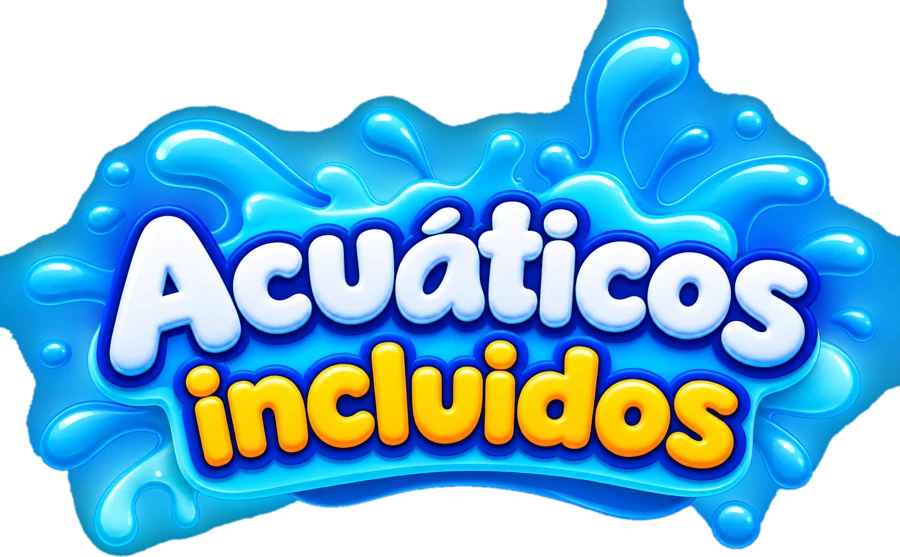
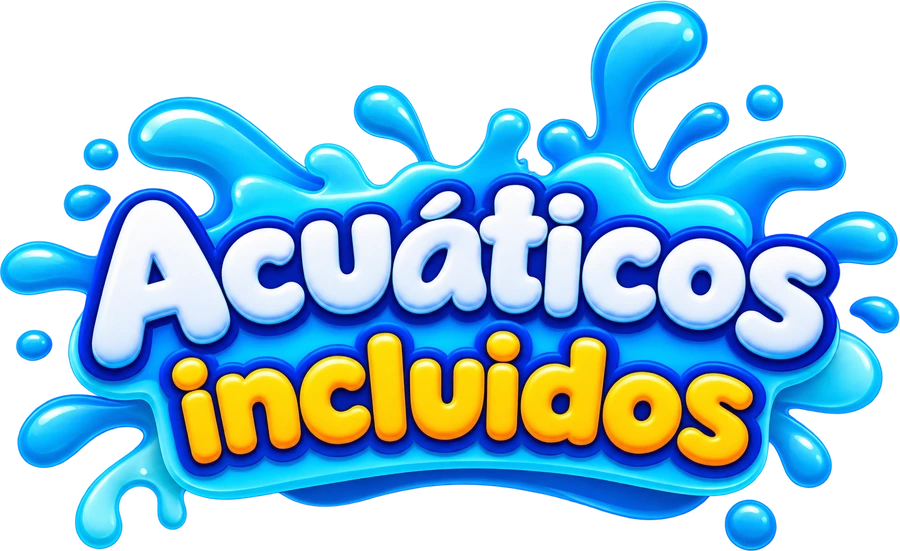
Cohete y Acuáticos: usar los PNG transparentes originales sin recortar
Claude-Session: https://claude.ai/code/session_01KPu7PH5FoTR17jMTLRghT3

diff --git a/planes.html b/planes.html
@@ -182,7 +182,7 @@ window.__planes={clave:clave,cache:c,foto:T.listo.then(function(){return T.demo&
   @keyframes gsal{from{transform:translate(var(--dx,20px),50px) scale(.2);opacity:0}to{transform:none;opacity:1}}
   @keyframes gbob{50%{transform:translateY(-5px) scale(1.06)}}
   .aq{position:relative;margin:4px -6px 12px;text-align:center}
-  .aq img{-webkit-mask-image:linear-gradient(90deg,transparent,#000 9%,#000 91%,transparent);mask-image:linear-gradient(90deg,transparent,#000 9%,#000 91%,transparent);display:block;width:100%;max-width:340px;margin:0 auto;height:auto;filter:drop-shadow(0 12px 14px rgba(0,60,130,.35))}
+  .aq img{display:block;width:100%;max-width:340px;margin:0 auto;height:auto;filter:drop-shadow(0 12px 14px rgba(0,60,130,.35))}
   .plan.in .aq img{animation:aqin .9s .4s cubic-bezier(.2,1.4,.35,1) both,aqf 4s 1.4s ease-in-out infinite}
   @keyframes aqin{from{transform:scale(.4) rotate(-6deg);opacity:0}to{transform:none;opacity:1}}
   @keyframes aqf{50%{transform:translateY(-4px) rotate(.8deg)}}
